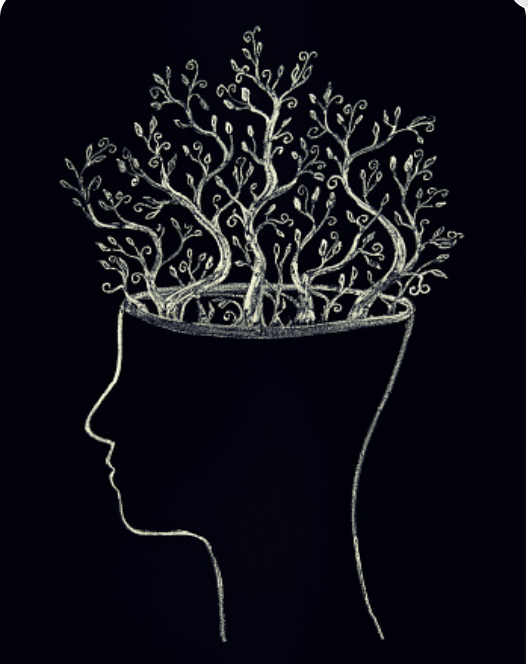
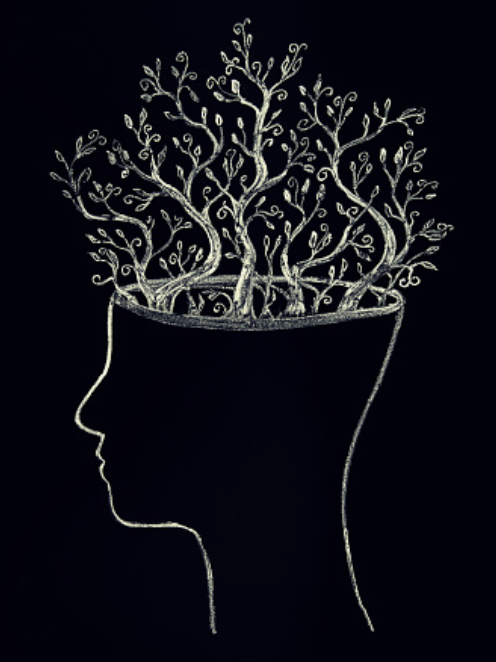
styling updates

diff --git a/static/style.css b/static/style.css
@@ -1,6 +1,6 @@
-html {
+/* html {
     background-color: black;
-}
+} */
 
 /* Navbar CSS */
 
@@ -17,34 +17,37 @@ html {
 
 .navbar {
   background-image: url(/static/images/sky.png);
-  height: 100px;
+  height: 150px;
   background-repeat: no-repeat;
   background-size: cover;
   color: black;
   font-family: marker felt, fantasy;
   font-weight: bold;
   font-size: 20pt;
+  margin-bottom: 25px;
 }
 #home_button_bar {
   background-color: black;
 }
   /* img CSS */
 
-  #icon_calendar {
+#icon_calendar {
   width: 70px;
   height: 70px;
   justify-content: center;
-  }
+}
 
 icon {
   width: 70px;
   height: 80px;;
-  } 
+} 
 
 #home_img{
-  width: 100vw; 
-  height: 100vh;
-  background-repeat: no-repeat;
+  width: 50%; 
+  position: absolute;
+  top: 50%;
+  left: 50%;
+  transform: translate(-50%, -50%);
   
 }
 
@@ -60,6 +63,26 @@ icon {
 
 /* text CSS */
 
+.centered {
+  position: absolute;
+  top: 92%;
+  left: 50%;
+  transform: translate(-50%, -50%);
+}
+
+#entry {
+  background-color: #FFF5EE;
+}
+.flash-msg {
+  position: absolute;
+  top: 5%;
+  font-size: 15pt;
+  left: 50%;
+  transform: translate(-50%, -50%);
+  font-family: 'Fredericka the Great', cursive;
+  color: #FFF5EE;
+}
+
 h1, h2, p, #entry {
   color: black;
   font-weight: bolder;
@@ -67,9 +90,14 @@ h1, h2, p, #entry {
   text-align: center;
 }
 
-#login_title, #login_title_1, .flash-msg{
+textarea {
+  margin-bottom: 25px;
+  background-color: white;
+}
+
+#login_title, #login_title_1 {
 font-family: 'Fredericka the Great', cursive;
-color: white;
+color: #FFF5EE;
 }
 
 form, h3, #journal_entry {
@@ -98,17 +126,18 @@ form, h3, #journal_entry {
 }
 
 #entry_visibility {
-  background-color: white;
+  background-color: #FFF5EE;
   border: solid 4px maroon;
   font-weight: bold;
   color: black;
   font-family: marker felt, fantasy;
+  margin-bottom: 30px;
 }
 
 /* button CSS */
 
 #source_button{
-  background-color: white;
+  background-color: #FFF5EE;
   border: none;
   font-weight: bold;
   color: maroon;
@@ -116,7 +145,7 @@ form, h3, #journal_entry {
 }
 
 .modal-content{
-  background-color:white;
+  background-color: white;
   border: none;
   color: black;
   font-family: marker felt, fantasy;
@@ -128,15 +157,16 @@ form, h3, #journal_entry {
   font-family: marker felt, fantasy;
 }
 #bonus_text_button {
-    background-color: white;
+    background-color: #FFF5EE;
     border: none;
     font-weight: bold;
     color: maroon;
+    font-size: 20pt;
     font-family: marker felt, fantasy;
 }
 
 button {
-  background-color: white;
+  background-color: #FFF5EE;
   border: none;
   font-weight: bold;
   color: maroon;
@@ -146,8 +176,8 @@ button {
 
 /* collasible button CSS */
 .collapsible {
-    background-color: coral;
-    color: white;
+    background-color: black;
+    color: #FFF5EE;
     cursor: pointer;
     padding: 18px;
     width: 100%;
@@ -162,5 +192,5 @@ button {
     padding: 0 18px;
     display: none;
     overflow: scroll;
-    background-color: #f1f1f1;
+    background-color: #FFF5EE;
   }

diff --git a/templates/my-journal.html b/templates/my-journal.html
@@ -2,6 +2,10 @@
 
 {% block title %} {{user.fname}}'s Journal {% endblock %}
 
+{% block body %}
+    <body style="background-color:#FFF5EE">
+{% endblock %}
+
 {% block nav %}
     <div class="col-4">  
         <a class="nav-link active" aria-current="page" href="/entry"><span><img src="/static/images/pen.png" alt="pen img" width=40px height=40px>My Entries</span></a>
@@ -25,23 +29,23 @@
     <span>
         {% if prompt.book %}
 
-    <button id="source_button" type="button" class="btn btn-primary" data-bs-placement="top" data-bs-toggle="tooltip" title="{{prompt.book}}">
-       <span><img src="/static/images/book_info_icon.png" title="{{prompt.book}}" alt="tooltip img" width=40px height=40px></span>
-   </button>
+        <button id="source_button" type="button" class="btn btn-primary" data-bs-placement="top" data-bs-toggle="tooltip" title="{{prompt.book}}">
+            <span><img src="/static/images/book_info_icon.png" alt="tooltip img" width=40px height=40px></span>
+        </button>
  
-    {% endif %}
+        {% endif %}
     </span>
     
     {{prompt.prompt}}
 
-<span>
-{% if prompt.bonus_text %}
+    <span>
+        {% if prompt.bonus_text %}
     
-    <button id="bonus_text_button" type="button"> + </button>
+         <button id="bonus_text_button" type="button" class="btn btn-primary" data-bs-placement="bottom" data-bs-toggle="tooltip" title="Additional Prompt Info"> + </button>
     
 
-{% endif %}
-</span>
+        {% endif %}
+    </span>
 </h2>
 
 <p id="additional_info"></p>

diff --git a/templates/community.html b/templates/community.html
@@ -2,6 +2,10 @@
 
 {% block title %} Journal Community {% endblock %}
 
+{% block body %}
+    <body style="background-color: #FFF5EE">
+{% endblock %}
+
 {% block nav %}
     <div class="col-4">  
         <a class="nav-link active" aria-current="page" href="/entry"><span><img src="/static/images/pen.png" alt="pen img" width=40px height=40px>My Entries</span></a>
@@ -19,17 +23,20 @@
 {% endblock %}
 
 {% block content %}   
-
-<h1> Journal Community</h1>
-
-<div id="radio-container">
-  
-    <input type="radio" name="community-view" value="everyone" id="community-everyone" checked>
-    <label for="community-everyone">Everyone</label>
-  
-    <input type="radio" name="community-view" value="connections" id="community-connections">
-    <label for="community-connections">Connections Only</label>
-
+<div class="fluid-container">
+<div class="row" style="color: black" id="radio-container">
+    <div class="col-3 offset-2">
+        <p> Community View:</p>
+    </div>
+    <div class="col-2">
+        <input type="radio" name="community-view" value="everyone" id="community-everyone" checked>
+        <label for="community-everyone">Everyone</label>
+    </div>
+    <div class="col-3">
+        <input type="radio" name="community-view" value="connections" id="community-connections">
+        <label for="community-connections">Connections Only</label>
+    </div>
+</div>
 </div>
 
 <div class="row">

diff --git a/templates/homepage.html b/templates/homepage.html
@@ -17,7 +17,7 @@
 </head>
 
 
-<body>
+<body> 
 
   <!-- Button trigger modal Create User -->
   <div id="home_button_bar" class="row">
@@ -44,13 +44,13 @@
       {% endfor %}
     </div>
   </div>
-
-  <div id="home_img_block" class="row" style="background-color: black">
+  <div id="home_img_block" class="row" style="background-color: black"> 
     <div class="col-10">
-      <div id="home_img" class="bg-image" style="background-image: url('/static/images/rupi.png')" ></div>
-        <h1 id="login_title_1">Growth Mindset</h1>
+      <img id="home_img" class="bg-image" src='/static/images/mind.png' >
+      <div class="centered">
+        <h1 id="login_title_1">Mindful Growth</h1>
         <h2 id="login_title"></h2>
-      </div>
+       </div>
     </div>
   </div>
 

diff --git a/templates/base.html b/templates/base.html
@@ -1,5 +1,6 @@
 <!doctype html>
-<html lang="en" style="background-image: url(/static/images/desert.png)">
+<!-- <html lang="en" style="background-image: url(/static/images/desert.png)"> -->
+<html lang="en">
     <head>
         <meta charset="UTF-8">
         <meta http-equiv="X-UA-Compatible" content="IE=edge">
@@ -15,8 +16,9 @@
        
     </head>
 
-
+{% block body %}
     <body>
+{% endblock %}
         <nav class="navbar">
             <div class="container-fluid">
                 <div class="row">

diff --git a/templates/shared-user-page.html b/templates/shared-user-page.html
@@ -2,6 +2,11 @@
 
 {% block title %} {{user.fname}}'s Journal Entries {% endblock %}
 
+{% block body %}
+    <body style="background-color: #FFF5EE">
+{% endblock %}
+
+
 {% block nav %}
     <div class="col-4">  
         <a class="nav-link active" aria-current="page" href="/entry"><span><img src="/static/images/pen.png" alt="pen img" width=40px height=40px>My Entries</span></a>

diff --git a/templates/user-page.html b/templates/user-page.html
@@ -18,6 +18,10 @@
 
 {% block title %} {{user.fname}}'s Entries {% endblock %}
 
+{% block body %}
+    <body style="background-color: #FFF5EE">
+{% endblock %}
+
 {% block content %} 
 <div class="container"></div> 
 
